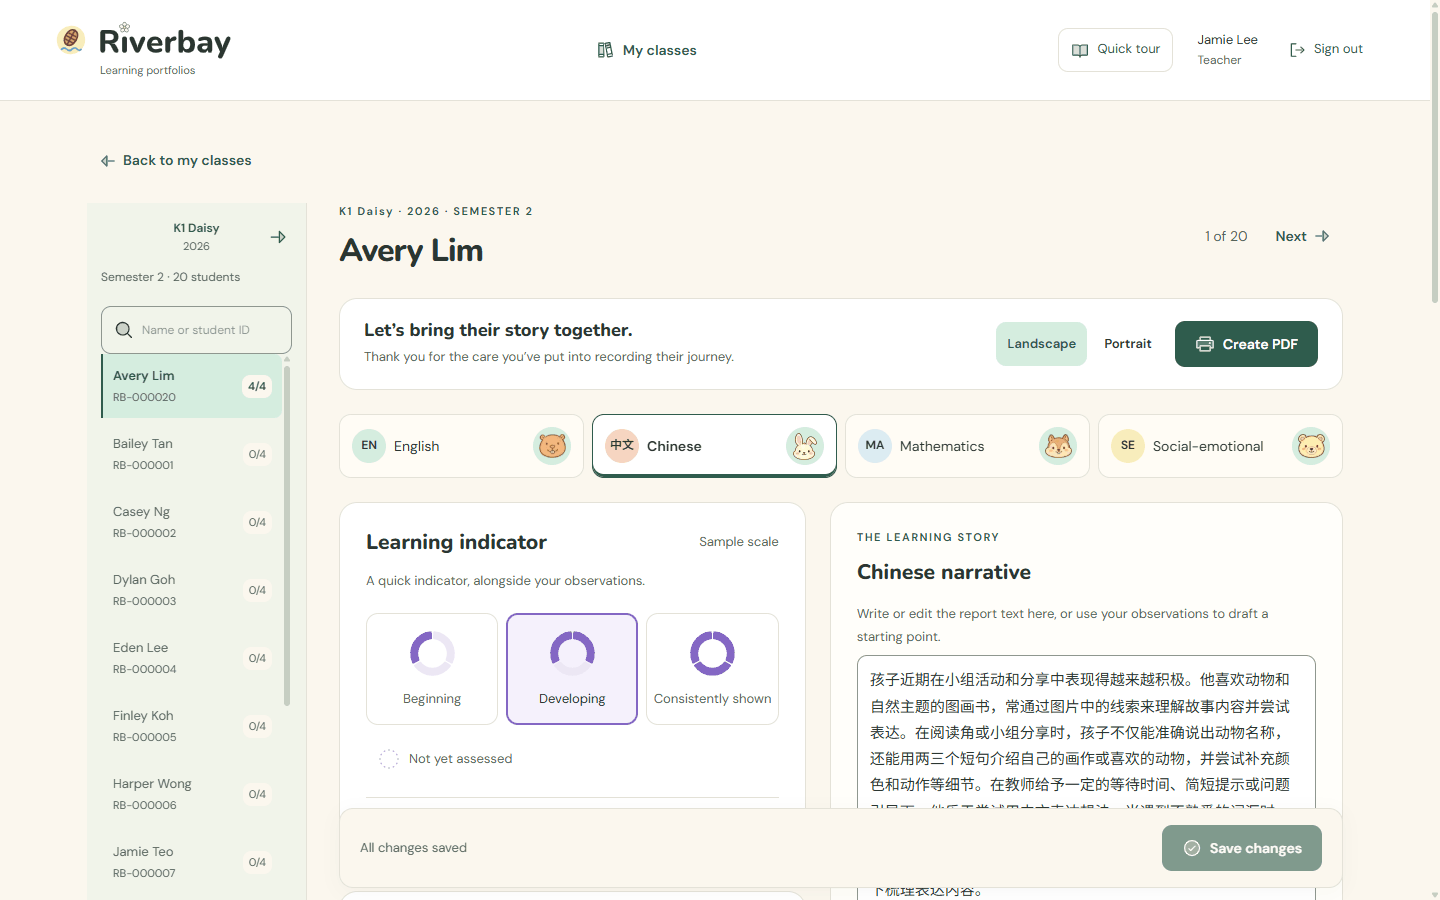
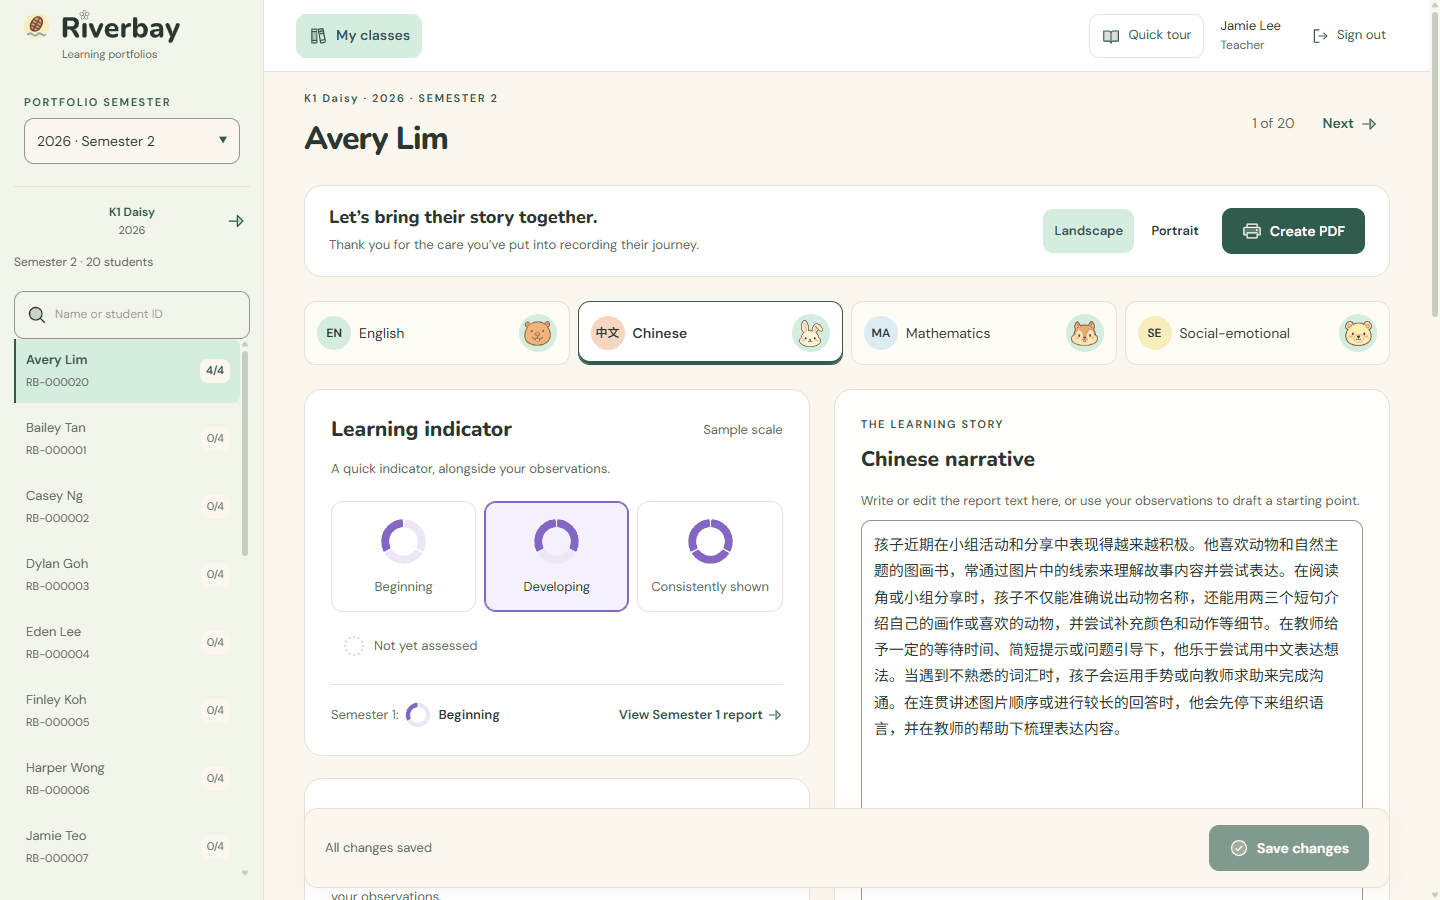
README: screenshots and wording for the new layout
Retaken on a local production build with fictional data: My classes, the
portfolio editor, the Chinese domain, Administration and the four steps. Notes
the semester picker, the way back from Semester 1 and the remembered class.

diff --git a/README.md b/README.md
@@ -93,14 +93,14 @@ Built in October 2026 as a working prototype for a preschool's portfolio brief. 
     <td width="50%" valign="top" align="left">
       <img src="/docs/readme/screenshots/my-classes.png" alt="My classes" width="100%">
       <br />
-      <strong>My Classes</strong> · Each student's four domains at a glance: not started, in progress, or ready for the PDF.
+      <strong>My Classes</strong> · The semester and classes on the left; each student's four domains at a glance: not started, in progress, or ready for the PDF.
     </td>
   </tr>
   <tr>
     <td width="50%" valign="top" align="left">
       <img src="/docs/readme/screenshots/portfolio-editor.png" alt="Portfolio editor" width="100%">
       <br />
-      <strong>Portfolio Editor</strong> · The class list, the four domain tabs, the indicator and the narrative on one screen.
+      <strong>Portfolio Editor</strong> · The semester and the class’s students on the left, then the four domain tabs, the indicator and the narrative.
     </td>
     <td width="50%" valign="top" align="left">
       <img src="/docs/readme/screenshots/chinese-domain.png" alt="Chinese domain" width="100%">
@@ -112,7 +112,7 @@ Built in October 2026 as a working prototype for a preschool's portfolio brief. 
     <td width="50%" valign="top" align="left">
       <img src="/docs/readme/screenshots/administration.png" alt="Administration" width="100%">
       <br />
-      <strong>Administration</strong> · Classes, students and teacher accounts for each school year.
+      <strong>Administration</strong> · Sections, academic year and classes on the left; students, teachers and settings for the chosen class.
     </td>
     <td width="50%" valign="top" align="left">
       <img src="/docs/readme/screenshots/pdf-cover.jpg" alt="PDF cover" width="100%">
@@ -136,7 +136,7 @@ One student's English domain in Semester 2, as the screenshots show it.
 
     <img src="/docs/readme/steps/2-draft.png" alt="AI draft" width="100%">
 
-3.  **Pick the indicator.** Choose Beginning, Developing or Consistently shown. In Semester 2, the Semester 1 indicator sits below the choices, and **View Semester 1 report** opens that semester on the same domain.
+3.  **Pick the indicator.** Choose Beginning, Developing or Consistently shown. In Semester 2, the Semester 1 indicator sits below the choices, and **View Semester 1 report** opens that semester on the same domain, with **Back to Semester 2 report** in the same spot to return.
 
     <img src="/docs/readme/steps/3-indicator.png" alt="Indicator" width="100%">
 
@@ -154,9 +154,10 @@ One student's English domain in Semester 2, as the screenshots show it.
 
 - **Four learning domains:** English, Chinese, Mathematics and Social-emotional, each with an indicator, dated observations, a narrative and photos, for every child in every semester.
 - **AI drafting with the teacher in charge:** the AI writes from the teacher's observations only, keeps support needs and frequency words as written, and asks for more detail when the notes are too thin. The provider is replaceable: Gemini, OpenAI and Groq adapters, with a local Qwen model benchmarked.
-- **Progress across the year:** Semester 2 shows each Semester 1 indicator, links to the Semester 1 report, and prints both rings in the PDF.
+- **Progress across the year:** Semester 2 shows each Semester 1 indicator, links to the Semester 1 report and back, and prints both rings in the PDF. A semester picker opens the same student in another semester.
 - **Bilingual PDF:** English and Simplified Chinese, landscape or portrait, with fonts embedded and a check that no Chinese character falls back to an empty box.
-- **Fast class workflow:** domains switch in the browser, neighbouring students load in the background, and an unsaved-changes guard protects typing.
+- **Fast class workflow:** domains switch in the browser, neighbouring students load in the background, My classes reopens the last class you worked in, and an unsaved-changes guard protects typing.
+- **One layout everywhere:** on wide screens, the logo heads a left column with each page's own list, and the top bar stays the same on every page. Phones keep a compact top layout.
 - **Access control:** Supabase Auth with administrator and teacher roles, row-level security on every table and photo path, and private storage with expiring links.
 - **Administration:** classes, students and teacher accounts by school year, with archiving instead of deletion.
 - **Small touches:** a quick tour on every page, river-animal loaders and two hidden easter eggs.
@@ -182,7 +183,7 @@ Made with [Archify](https://github.com/tt-a1i/archify) from [`architecture.json`
 ```text
 .
 ├── src/
-│   ├── app/            # Pages, server actions and API routes (sign-in, drafting, PDF)
+│   ├── app/            # (workspace) pages in one shared frame, server actions and API routes
 │   ├── components/     # Portfolio editor, class list, administration, loaders and tours
 │   └── lib/            # Access checks, AI provider, PDF export and portfolio rules
 ├── supabase/

diff --git a/docs/design-concepts/motion/README.md b/docs/design-concepts/motion/README.md
@@ -22,7 +22,7 @@ The 250/700 ms rule fits Vercel well: cold starts and Supabase round trips make 
 ## In the app
 
 - **Two scenes, chosen at random** each time a loader shows: the squirrel and rabbit across the meadow, or the beaver swimming across a stream. Never the same scene three times in a row. With reduced motion, one still animal.
-- **Full screen** (`PageLoader`): sign-in, My classes (top bar and Back to my classes), opening a portfolio from My classes, opening Administration and changing its academic year.
+- **Full screen** (`PageLoader`): sign-in, My classes (top bar, logo and the class breadcrumb on a portfolio), opening a portfolio from My classes, opening Administration and changing its academic year.
 - **Compact strip** (`InlineLoader`, under the domain tabs, page stays visible): domain tabs, previous/next student, the student list and class switching inside a portfolio, including after Save or Discard in the unsaved-changes dialog. Labels name the target, for example "Opening Chinese…" or "Opening Bailey Tan…".
 - Timing in the app: shown after 250 ms of waiting, then held at least 900 ms (full screen) or 1.1 s (compact strip). Each lap starts part-way across, so the animals are in view from the first frame.
 - Not used for saving, photo uploads, AI drafting or PDF export, which have their own progress messages.
